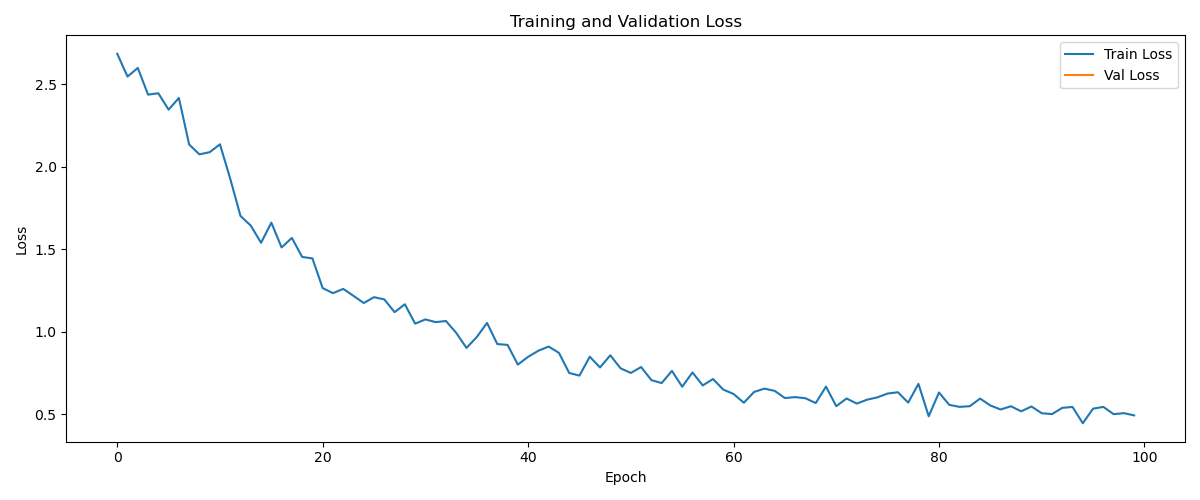
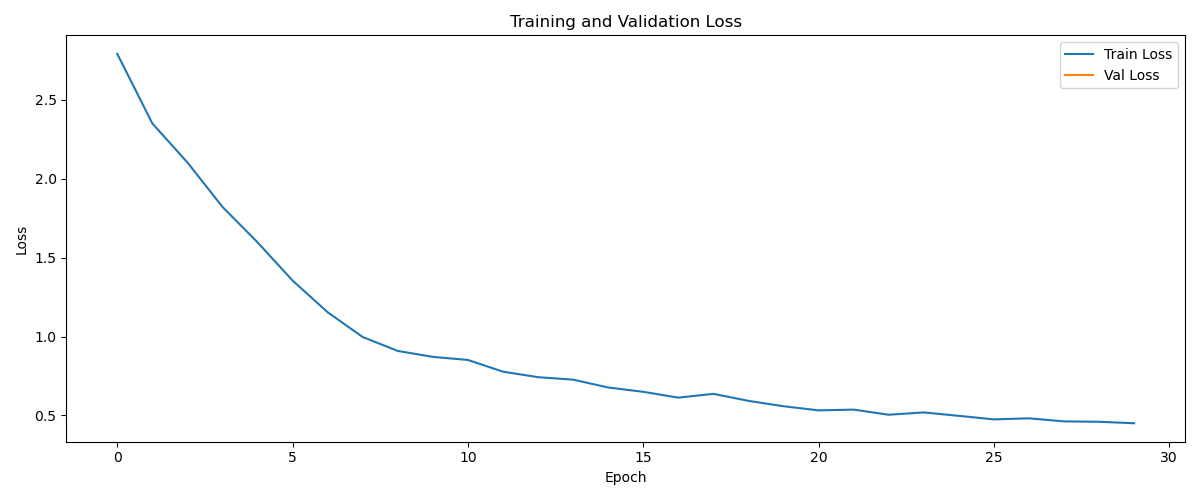
expand baseline experiment to 300 scan

diff --git a/baseline/retrieval/main.py b/baseline/retrieval/main.py
@@ -205,8 +205,10 @@ def main():
         collate_fn=collate_fn_finetuning
     )
 
-    freezeT1 = True
-    unfreeze_layers = [1]
+    freezeT1 = False
+    unfreeze_layers = None
+    if unfreeze_layers is not None:
+        print(f"[INFO] Unfreezing layers: {unfreeze_layers}...")
 
 
     trained_T2, train_cross_attn = finetuning(
@@ -224,9 +226,7 @@ def main():
     )
 
     print("Aha! Finetuning completed successfully!")
-
-    if unfreeze_layers is not None:
-        print(f"[INFO] Unfreezing layers: {unfreeze_layers}...")
+    
 
     # save the finetuned models
     torch.save(trained_T2.state_dict(), f"baseline_checkpoints/finetuned_T2.pt")

diff --git a/baseline/classification/main.py b/baseline/classification/main.py
@@ -172,8 +172,8 @@ def main():
 
     gait_head_template = GaitRecognitionHead(input_dim=hidden_size, num_classes=num_classes).to(device)
 
-    freezeT1 = True
-    unfreeze_layers = [1]
+    freezeT1 = False
+    unfreeze_layers = None
 
     trained_T2, train_cross_attn, train_head = finetuning(
         train_loader=train_finetuning_dataloader,

diff --git a/baseline/classification/finetuning.py b/baseline/classification/finetuning.py
@@ -98,6 +98,10 @@ def finetuning(
     device: str = 'cuda' if torch.cuda.is_available() else 'cpu'
 ) -> Tuple[BaseT1, nn.Module, nn.Module]:
     
+    print(f"is T1 freezed? {freezeT1}")
+    print(f"unfreezing layers: {unfreeze_layers}")
+
+    
     # freeze T1 parameters
     if freezeT1:
         for param in t1.parameters():

diff --git a/baseline/classification/inference.py b/baseline/classification/inference.py
@@ -141,8 +141,8 @@ def main():
     )
 
     # load T1 model
-    freezeT1 = True
-    unfreeze_layers = [1]
+    freezeT1 = False
+    unfreeze_layers = ["entire"]
     if unfreeze_layers is None:
         t1 = load_T1("baseline_checkpoints/pretrained.pt", d_model=hidden_size, device=device)
     else:

diff --git a/README.md b/README.md
@@ -55,6 +55,9 @@ TBD
 | 50 | 27 | linear | yes | 1e-4 | 5000 | 1e-5, wd=1e-4 | 30 | 21.58% | 
 | 50 | 27 | linear | no  | 1e-4 | 5000 | 1e-5, wd=1e-4 | 30 | 15.83% |
 | 50 | 27 | linear | finetune layer #2 | 1e-4 | 5000 | 1e-5, wd=1e-4 | 30 | 12.95% |
+| 300 | 109 | linear | yes | 1e-4 | 5000 | 1e-5, wd=1e-4 | 100 | 9.67% |
+| 300 | 109 | linear | no | 1e-4 | 5000 | 1e-5, wd=1e-4 | 100 | 10.64% |
+| 300 | 109 | linear | finetune layer #2 | 1e-4 | 5000 | 1e-5, wd=1e-4 | 100 | 10.64% |
 
 ## Baseline - Experiment (open-set retrieval)
 | #subject scanned | #subject actual | decoder | freeze T1? | T1-lr | #epochs | T2-lr (ft-lr) | #epochs | R1-acc (seen people from training, but different cameras) | R1-acc (completely unseen people)
@@ -62,6 +65,9 @@ TBD
 | 50 | 27 | linear | yes | 1e-4 | 5000 | 1e-5, wd=1e-4 | 100 | 30.94% | 15.75% |
 | 50 | 27 | linear | no  | 1e-4 | 5000 | 1e-5, wd=1e-4 | 100 | 28.06% | 17.53% |
 | 50 | 27 | linear | finetune layer #2 | 1e-4 | 5000 | 1e-5, wd=1e-4 | 100 | 30.22% | 14.71% |
+| 300 | 109 | linear | yes | 1e-4 | 5000 | 1e-5, wd=1e-4 | 500 | 13.54% | 12.54% |
+| 300 | 109 | linear | no | 1e-4 | 5000 | 1e-5, wd=1e-4 | 30 | 10.06% | 6.24% |
+| 300 | 109 | linear | finetune layer #2 | 1e-4 | 5000 | 1e-5, wd=1e-4 | 30 | 12.57% | 7.02% |
 
 ## BPMT 1.0 - Experiment (close-set classification)
 
@@ -76,22 +82,19 @@ TBD
 | #subject scanned | #subject actual | decoder | freeze T1? | T1-lr | #epochs | freeze T2? | T1-lr | #epochs | ft-lr | ft-#epochs | R1-acc (seen people from training) | 
 |------------------|------------------|------------|------------|--------|-------------|-------------|--------|-------------|----------------|--------------------|--------------|
 
+## Existing State-of-the-art
 
-## Conda environment setup
-
-BPMT_env - stay tuned!
-
-## Existing Gait recognition evaluation results 
-
-The following papers give a nice overview of POSE-ONLY gait recognition
-
-"GaitPT: Skeletons Are All You Need For Gait Recognition" (CVPR'23): they use a very complicated four-stage training (joint, limb, limb group, body), which is (unfortuately) very similar to our design. GaitPT uses three datasets: CASIA-B, GREW, Gait3D for evaluation. In GaitPT, multiple evaluation metrics are used: rank-1 accuracy, rank-5 accuracy. it shows the following results for Gait 3D specifically:
+PoseGait, GaitGraph, GaitFormer, GaitPT:
 
 ![alt text](docs/results_gaitPT.png)
 
-similar results in "SkeletonGait: Gait Recognition Using Skeleton Maps" (CVPR'23):
+GaitGraph2, GaitTR, GPGait:
 
 ![alt text](docs/results_skeletonmap.png)
+
+GaitDIF:
+
+![alt text](docs/GaitDIF.png)
 
 
 ## What "could" be the next step?
